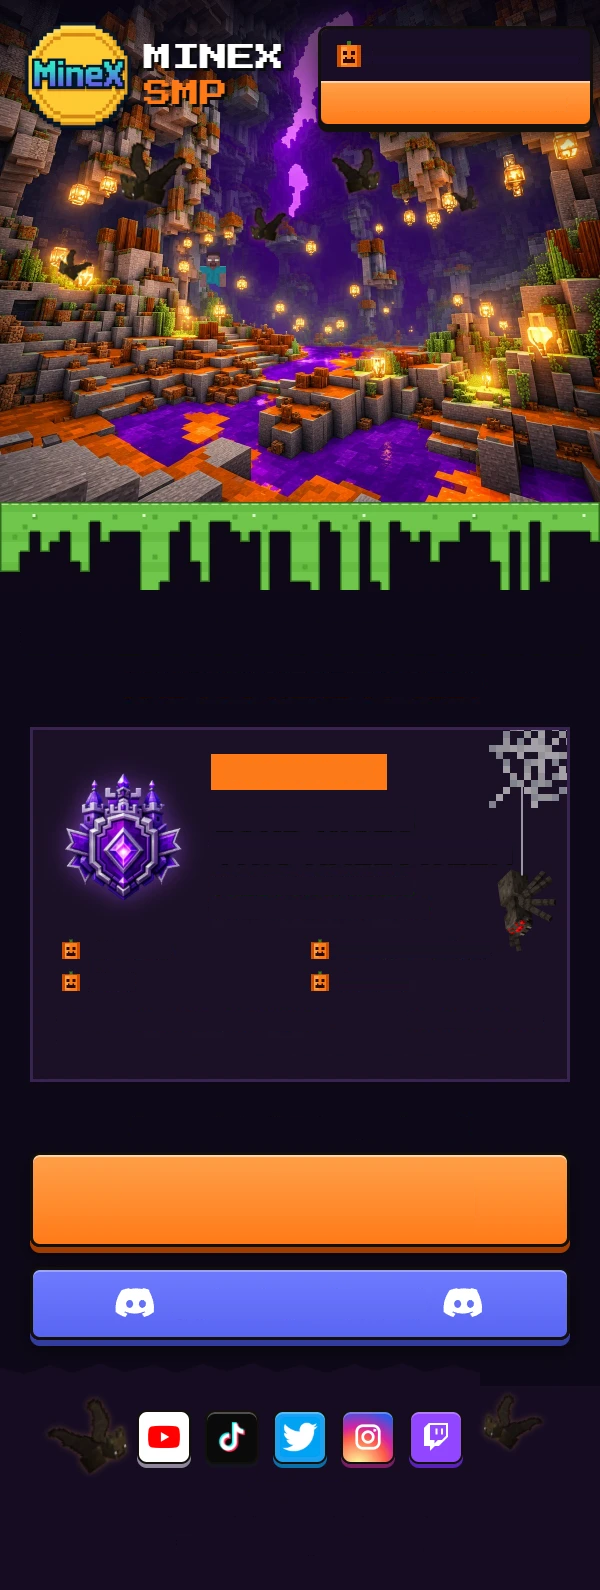
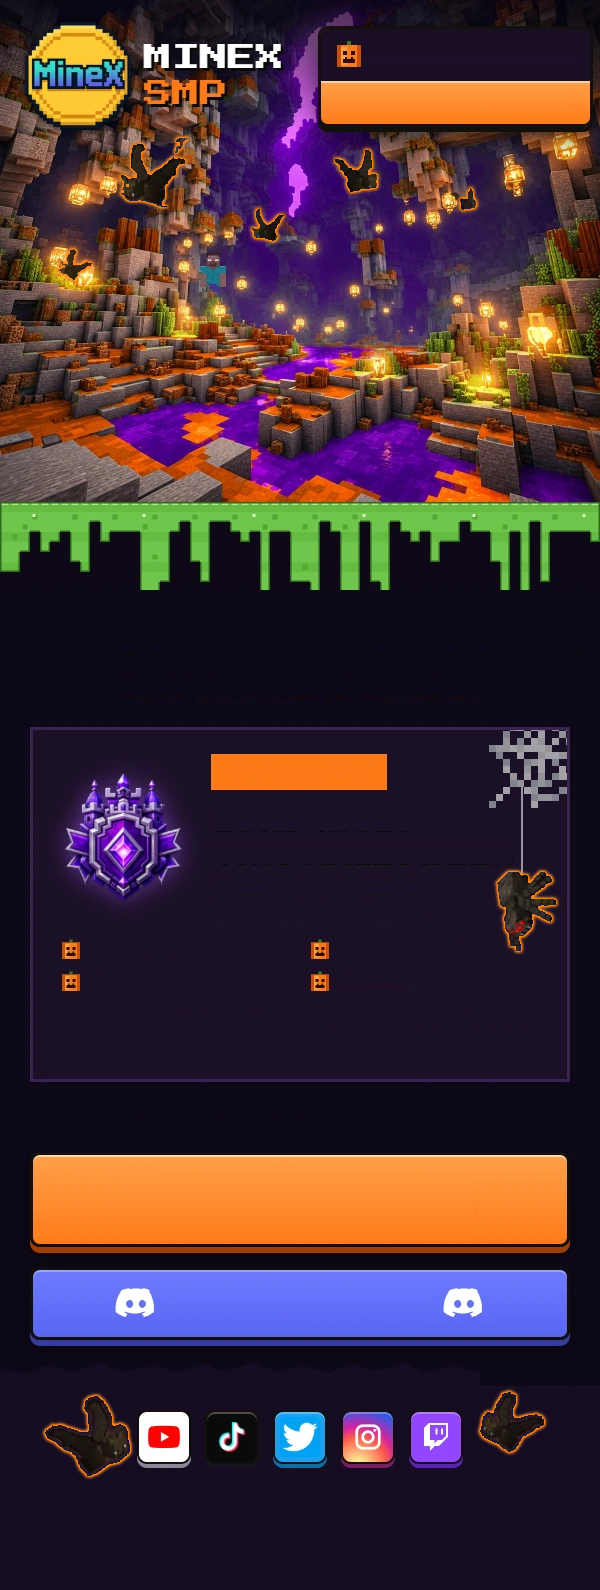
Add orange glow to bats and spider, centre creator platforms line
Claude-Session: https://claude.ai/code/session_01KGTV2UoD452KNvpXafvsay

diff --git a/email/creator/index.html b/email/creator/index.html
@@ -17,7 +17,7 @@
 <div style="position:absolute;left:341.00px;top:974.40px;font-family:'Outfit',sans-serif;font-weight:600;font-size:18.34px;letter-spacing:-0.700px;line-height:1;white-space:nowrap;color:#8fdc57;">Early Update Access</div>
 <div style="position:absolute;left:59.00px;top:1012.75px;font-family:'Outfit',sans-serif;font-weight:500;font-size:16.86px;letter-spacing:-0.368px;line-height:1;white-space:nowrap;color:#e8e2ec;">Applications <span style="color:#fe7a17;">Open Now</span></div>
 <div style="position:absolute;left:358.00px;top:1012.15px;font-family:'Outfit',sans-serif;font-weight:600;font-size:15.25px;letter-spacing:0.037px;line-height:1;white-space:nowrap;color:#fe7a17;">All Channel Sizes Welcome</div>
-<div style="position:absolute;left:59.00px;top:1042.40px;font-family:'Outfit',sans-serif;font-weight:700;font-size:17.08px;letter-spacing:0.273px;line-height:1;white-space:nowrap;color:#ffffff;">YouTube&nbsp;&nbsp; TikTok&nbsp;&nbsp; Twitch&nbsp;&nbsp; Instagram</div>
+<div style="position:absolute;left:30px;width:540px;text-align:center;top:1042.40px;font-family:'Outfit',sans-serif;font-weight:700;font-size:17.08px;letter-spacing:0.273px;line-height:1;white-space:nowrap;color:#ffffff;">YouTube&nbsp;&nbsp; TikTok&nbsp;&nbsp; Twitch&nbsp;&nbsp; Instagram</div>
 <div style="position:absolute;left:101.00px;top:1125.05px;font-family:'Outfit',sans-serif;font-weight:500;font-size:19.44px;letter-spacing:-0.193px;line-height:1;white-space:nowrap;color:#ece6e4;">Check out the server, then apply on our <span style="color:#8fdc57;font-weight:700;">Discord</span></div>
 <div style="position:absolute;left:70.00px;top:1179.45px;font-family:'Outfit',sans-serif;font-weight:700;font-size:55.85px;letter-spacing:1.102px;line-height:1;white-space:nowrap;color:#1b0a00;">creator.minex.gg</div>
 <div style="position:absolute;left:168.00px;top:1294.15px;font-family:'Outfit',sans-serif;font-weight:700;font-size:34.53px;letter-spacing:-0.240px;line-height:1;white-space:nowrap;color:#ffffff;">Apply on Discord</div>
